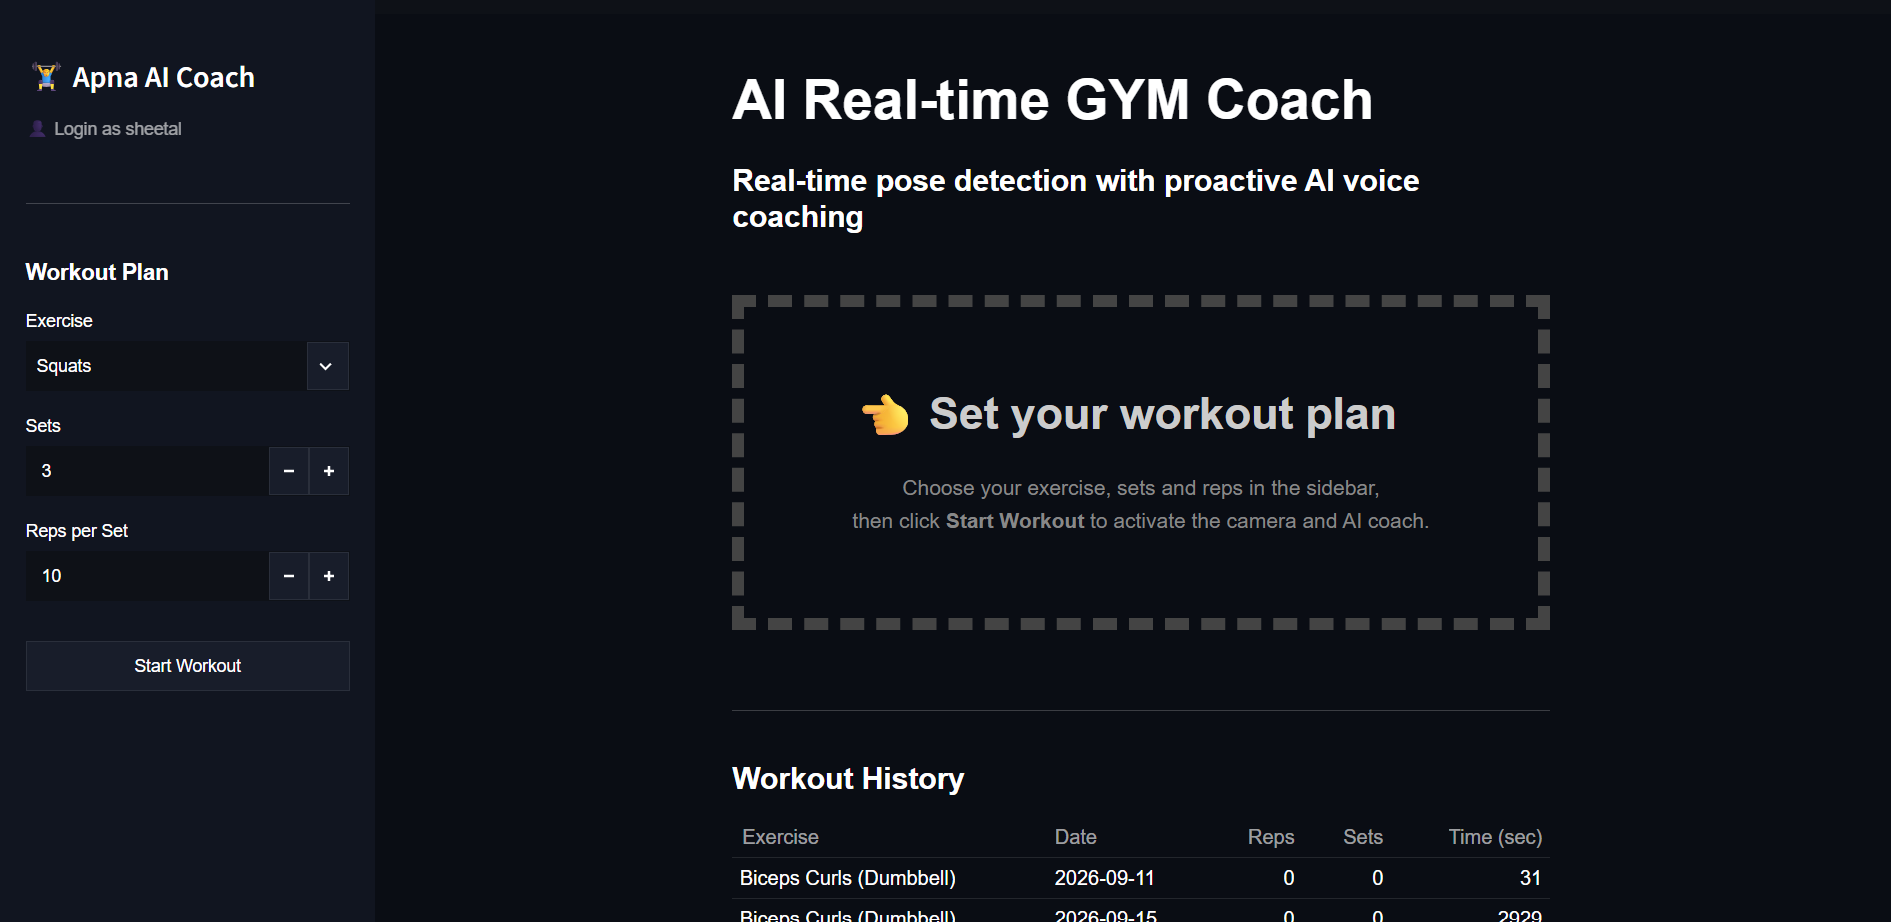
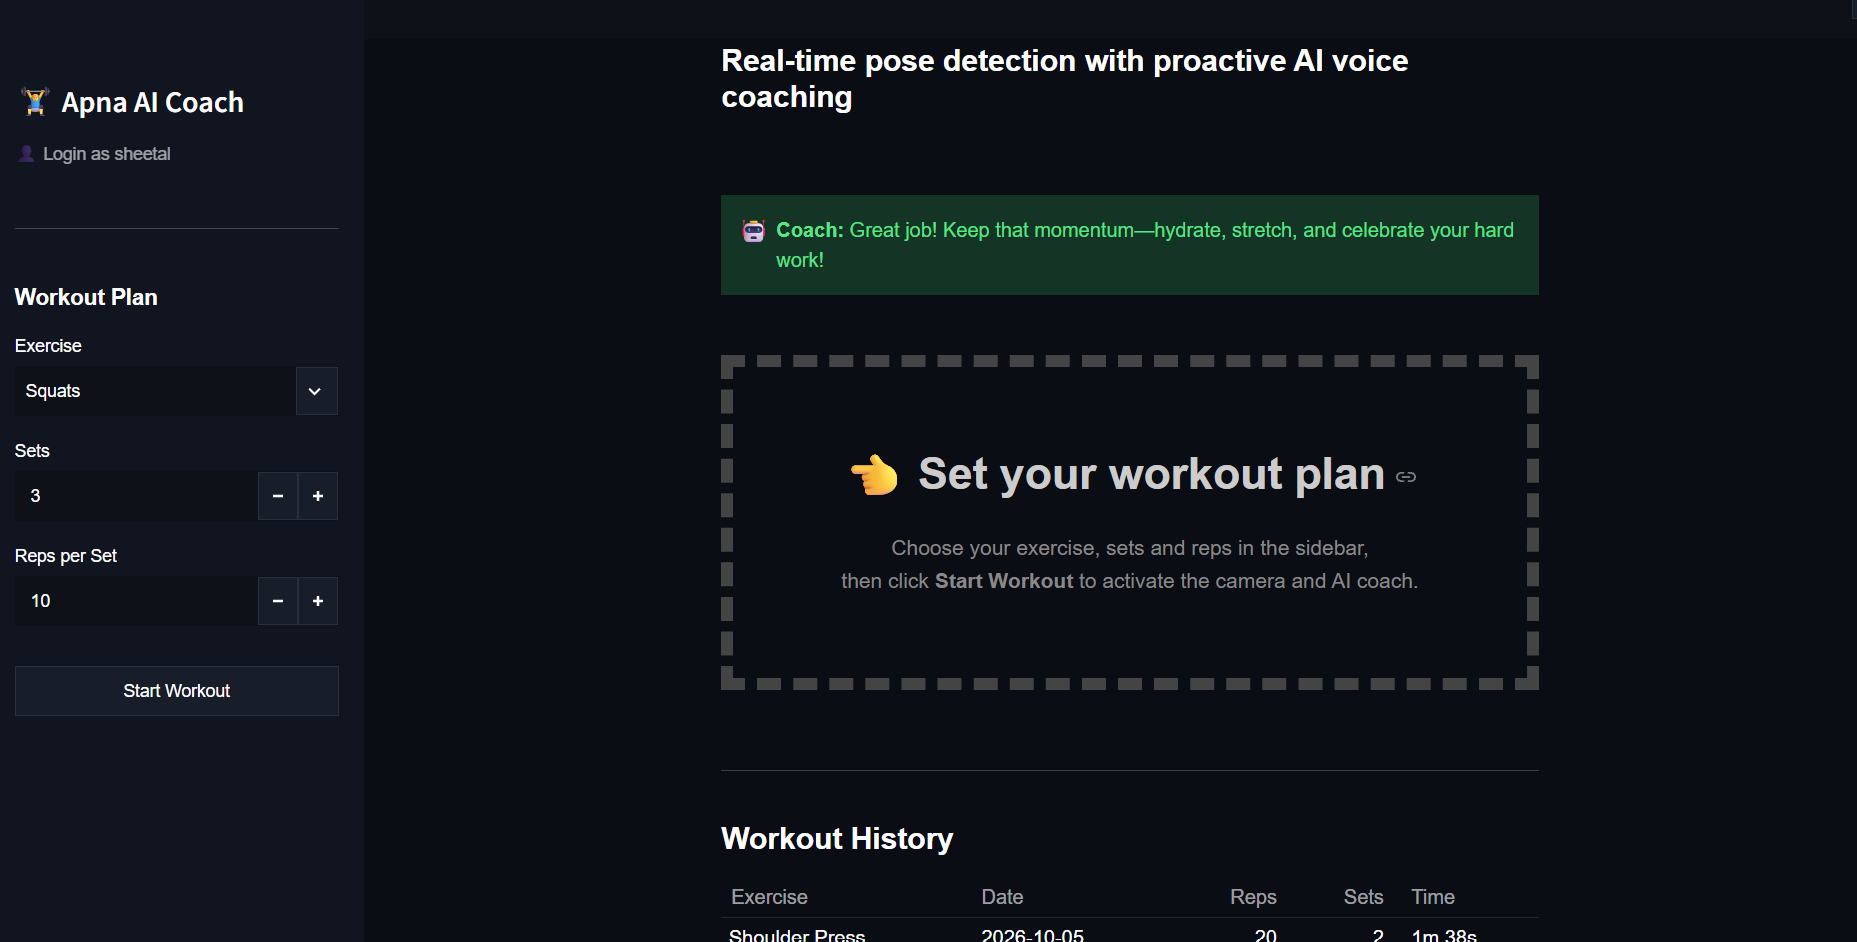
Update AI Gym Coach

diff --git a/index.html b/index.html
@@ -14,7 +14,6 @@
     />
   </head>
   <body>
-    <!-- GRID OVERLAY -->
     <div class="grid-overlay" aria-hidden="true"></div>
 
     <!-- NAV -->
@@ -52,7 +51,7 @@
 
       <div class="hero-cta-row">
         <a
-          href="https://ai-real-time-gym-coach-xkzbmbaesoa4bnjxshpxsx.streamlit.app/"
+          href="https://ai-real-time-gym-coach-production.up.railway.app/"
     
           target="_blank"
           rel="noopener noreferrer"
@@ -103,8 +102,7 @@
         <!-- Card 1 -->
         <div class="img-card card-tilt-left card-float-1">
           <div class="card-inner">
-            <div class="card-img-wrap">
-              <!-- Replace src with your image -->
+            <div class="card-img-wrap">            
               <img
                 src="./IMGs/i1.png"
                 alt="Squat form analysis"
@@ -143,57 +141,6 @@
             <div class="card-img-wrap">
               <img
                 src="./IMGs/i3.png"
-                alt="Overhead press alignment"
-                onerror="this.parentElement.classList.add('img-placeholder')"
-              />
-              <div class="card-scan-line"></div>
-            </div>
-            <div class="card-corner tl"></div>
-            <div class="card-corner tr"></div>
-            <div class="card-corner bl"></div>
-            <div class="card-corner br"></div>
-          </div>
-        </div>
-
-        <div class="img-card card-tilt-right card-float-4">
-          <div class="card-inner"> 
-            <div class="card-img-wrap">
-              <img
-                src="./IMGs/i4.png"
-                alt="Overhead press alignment"
-                onerror="this.parentElement.classList.add('img-placeholder')"
-              />
-              <div class="card-scan-line"></div>
-            </div>
-            <div class="card-corner tl"></div>
-            <div class="card-corner tr"></div>
-            <div class="card-corner bl"></div>
-            <div class="card-corner br"></div>
-          </div>
-        </div>
-
-        <div class="img-card card-center card-float-5">
-          <div class="card-inner">
-            <div class="card-img-wrap">
-              <img
-                src="./IMGs/i5.png"
-                alt="Overhead press alignment"
-                onerror="this.parentElement.classList.add('img-placeholder')"
-              />
-              <div class="card-scan-line"></div>
-            </div>
-            <div class="card-corner tl"></div>
-            <div class="card-corner tr"></div>
-            <div class="card-corner bl"></div>
-            <div class="card-corner br"></div>
-          </div>
-        </div>
-
-        <div class="img-card card-tilt-left card-float-6">
-          <div class="card-inner">
-            <div class="card-img-wrap">
-              <img
-                src="./IMGs/i6.png"
                 alt="Overhead press alignment"
                 onerror="this.parentElement.classList.add('img-placeholder')"
               />
